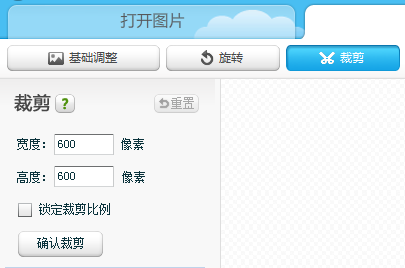
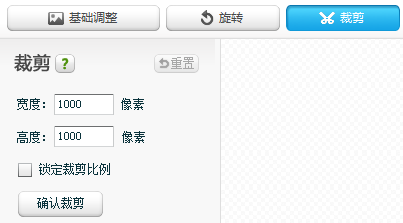
fix bug

Changed region(s): [[0.0, 0.0, 1.0, 0.6996], [0.0, 0.7265, 0.5062, 1.0]]

diff --git a/application/views/user/profile.php b/application/views/user/profile.php
@@ -189,7 +189,7 @@
 			<label class="control-label" for="photo">照片</label>
 			<div class="controls">
 				<input class="input-file" name="photo" type="file">
-				<p class="help-block">请把照片剪裁成正方形，保证边长至少600px。推荐使用 <a href="<?php echo site_url('user/xiuxiu'); ?>" target="_blank" class="btn">美图秀秀</a> 剪裁。如果不想更新，可以留空。</p>
+				<p class="help-block">照片将会印在毕业纪念册上，请把照片剪裁成正方形，保证边长至少1000px。推荐使用 <a href="<?php echo site_url('user/xiuxiu'); ?>" target="_blank" class="btn">美图秀秀</a> 剪裁。如果不想更新，可以留空。</p>
 				<?php if (!empty($profile->photo)): ?>
 					<p><img src="<?php echo base_url('upload/thumb_' . $profile->photo); ?>" alt="" width="160", height="160" class="photo" /></p>
 				<?php endif; ?>

diff --git a/application/views/user/xiuxiu.php b/application/views/user/xiuxiu.php
@@ -1,2 +1,2 @@
-<p>剪裁图片推荐使用 <a href="http://xiuxiu.web.meitu.com/" target="_blank" class="btn">美图秀秀在线版</a>，无需下载软件，在浏览器中即可完成。选择好一张照片后，按照下图的尺寸进行剪裁，保证 <b>宽度 = 高度</b>，而且 <b>大于600像素</b>。请在上传图片之前先完成剪裁。</p>
+<p>剪裁图片推荐使用 <a href="http://xiuxiu.web.meitu.com/" target="_blank" class="btn">美图秀秀在线版</a>，无需下载软件，在浏览器中即可完成。选择好一张照片后，按照下图的尺寸进行剪裁，保证 <b>宽度 = 高度</b>，而且 <b>大于1000像素</b>。请在上传图片之前先完成剪裁。</p>
 <p><img src="<?php echo base_url('asset/img/help_xiuxiu.png'); ?>" alt="美图秀秀说明" /></p>
